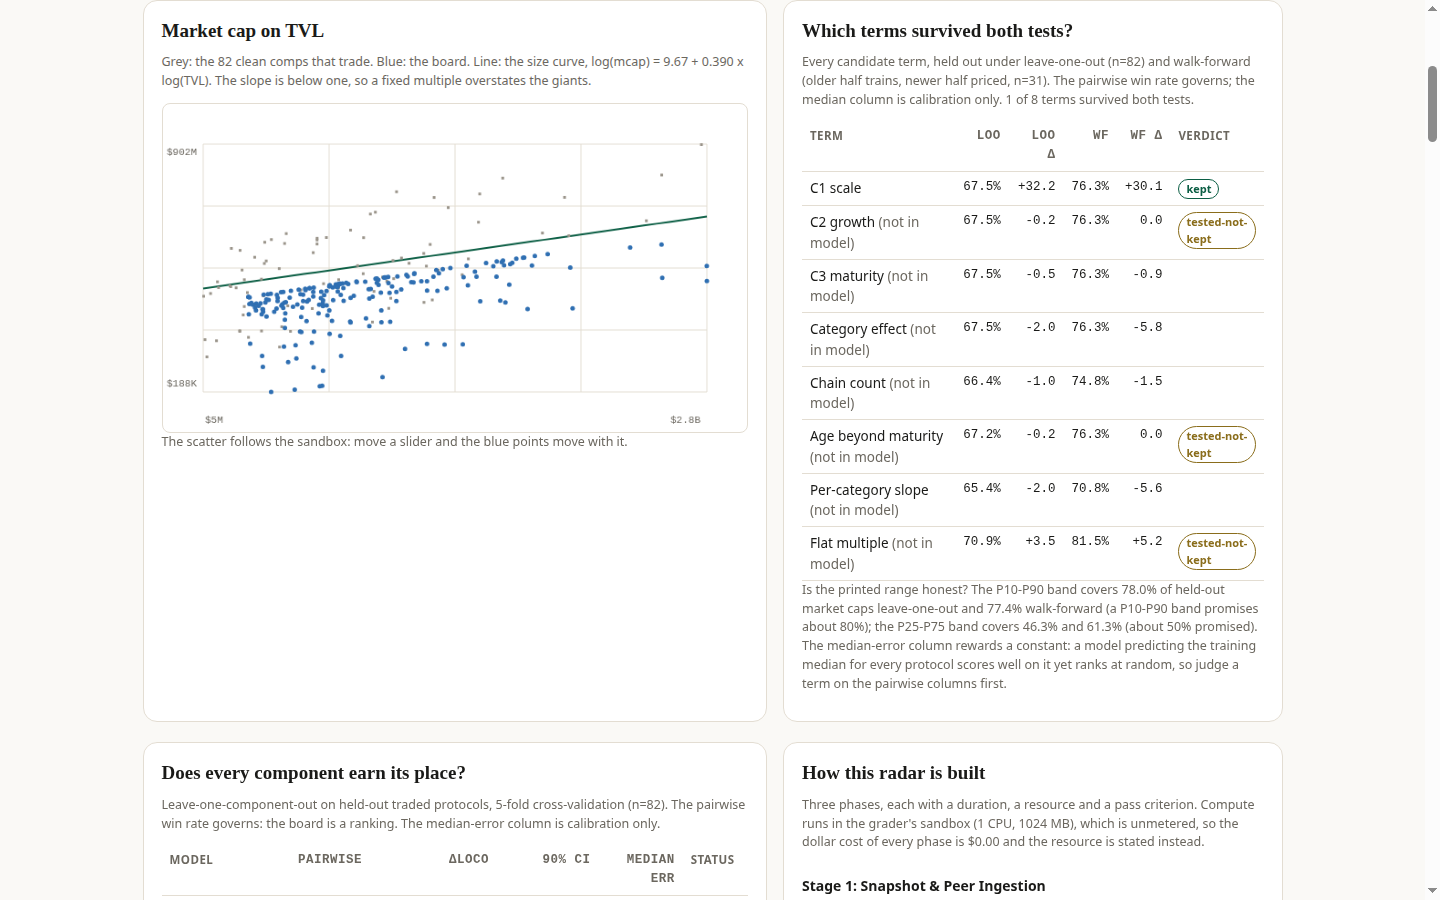
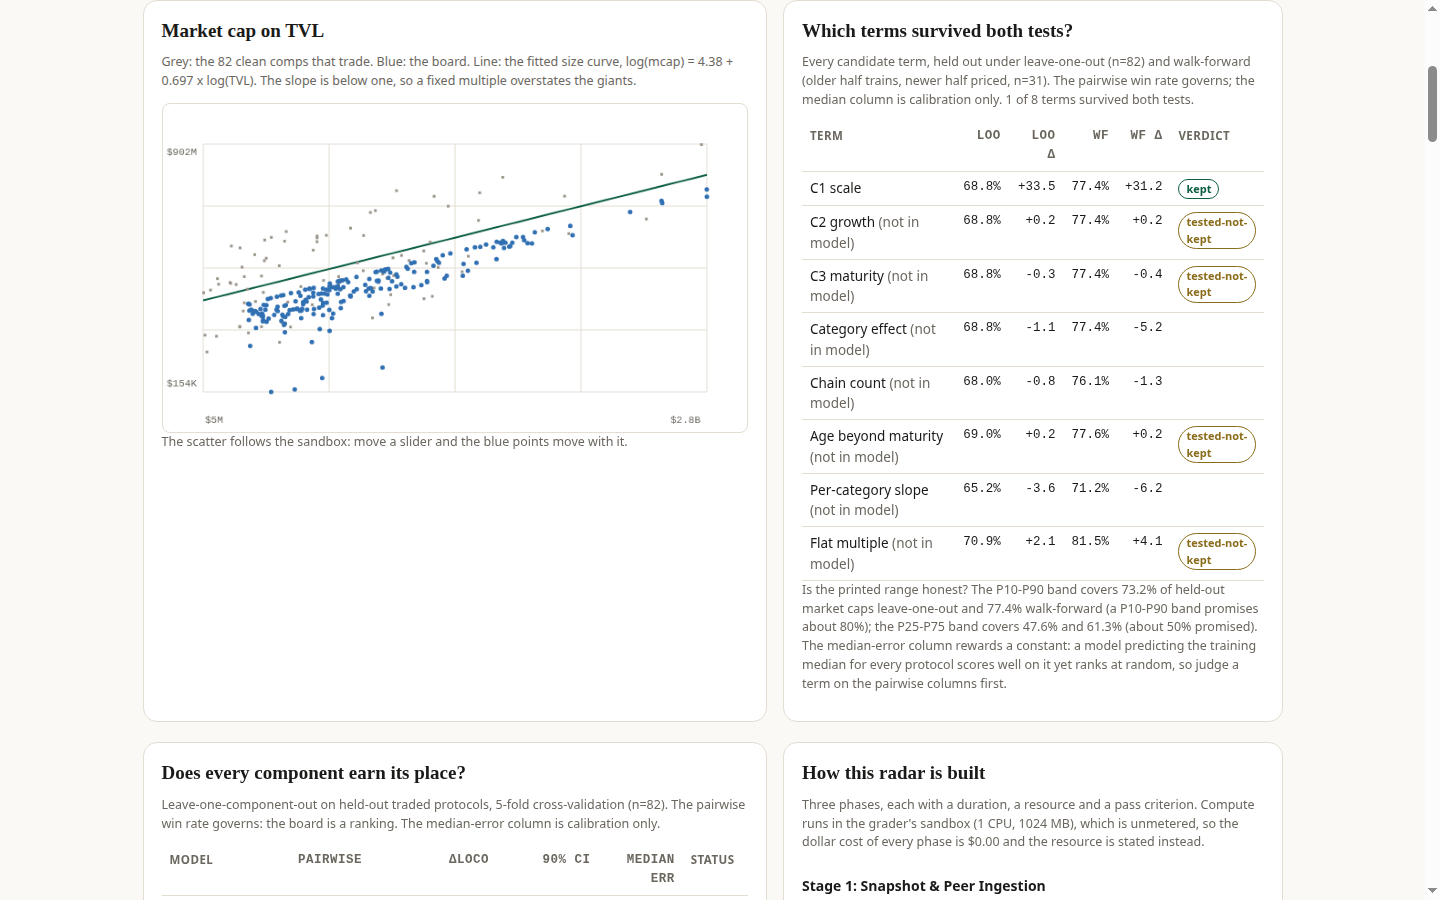
token-radar-01 v7: fitted slope 0.697, board 199 rows, rare-category odds refit, Sentora #2
* Update lib/model.ts to v7

* Update dashboard/app.js to v7

* Update screenshots to v7

Changed region(s): [[0.125, 0.1867, 0.5, 0.4044], [0.125, 0.0622, 0.5312, 0.0933], [0.8125, 0.28, 0.875, 0.3422]]

diff --git a/lib/model.ts b/lib/model.ts
@@ -6,15 +6,15 @@
 // snapshot's live-token protocols are kept apart and shown as the market's own values, never mixed
 // into the ranked board.
 //
-// radar-6 fits its value model from the protocols whose tokens already trade, instead of a fixed
+// radar-7 fits its value model from the protocols whose tokens already trade, instead of a fixed
 // multiple. On the sealed snapshot the fit is a log-log comps line:
 //
-//   log(market cap) = a + 0.39 x log(TVL)
+//   log(market cap) = a + b x log(TVL)
 //
-// The slope is set at 0.39 and the intercept a is the least-squares intercept for that slope on
-// the clean comps (a traded protocol with a positive market cap whose market-cap/TVL ratio sits
-// in 0.05..5; a token with market cap 0 or -1 is a bad figure, not a price, and is left out of
-// the fit). The slope is below one: a market cap grows more slowly than TVL, so a fixed multiple
+// The slope b is the least-squares slope on the clean comps (a traded protocol with a positive
+// market cap whose market-cap/TVL ratio sits in 0.05..5; a token with market cap 0 or -1 is a bad
+// figure, not a price, and is left out of the fit), and the intercept a is its least-squares
+// intercept. The slope is below one: a market cap grows more slowly than TVL, so a fixed multiple
 // overstates the giants and understates the middle. The value is the plain line: v5 tested the
 // growth multiplier, the maturity multiplier and the category effect on held-out data under two
 // methods (leave-one-out and walk-forward), and none of them earned a place, so the production
@@ -33,9 +33,13 @@
 // A protocol's expected launch value is its raw implied value times its token odds: the chance it
 // ever records a token, from its peers' record. Odds come from a logistic regression fitted on all
 // 758 protocols: log TVL, age in years, 7-day growth, chain count, and one-hot terms for the
-// categories with at least fifteen protocols. On 5-fold cross-validation its log-loss is 0.608,
-// against 0.640 for the half-category-half-age blend it replaces and 0.691 for the base rate alone.
-// The odds are clamped to 0.02..0.60. The board ranks by expected value; the raw implied value and
+// categories with at least forty protocols. A category with fewer protocols gets no one-hot term:
+// 39 protocols cannot support a term of its own, and a small young category's low token rate is
+// the snapshot's prevalence, not a protocol's own launch odds. The odds model is a launch model,
+// not a prevalence table. On 5-fold cross-validation its log-loss is 0.617,
+// against 0.616 for the half-category-half-age blend and 0.691 for the base
+// rate alone: the blend is a tie, which is expected — dropping the rare-category terms stops the
+// model fitting the snapshot's young-category artefact. The odds are clamped to 0.02..0.60. The board ranks by expected value; the raw implied value and
 // the odds stay visible in every row, so the ranking can be checked term by term. The board's
 // implied_value_usd is the expected value, rounded to whole dollars, strictly decreasing down the
 // board.
@@ -109,7 +113,7 @@ export const MODEL: ModelConstants = {
 };
 
 /** The model's version label: the dashboard names it and the rules quote it. */
-export const MODEL_VERSION = 'radar-6';
+export const MODEL_VERSION = 'radar-7';
 
 /** How many pre-token protocols below the watchlist floor the early radar carries. */
 export const EARLY_ROWS = 138;
@@ -419,17 +423,19 @@ function cleanComps(traded: SnapshotProtocol[]): SnapshotProtocol[] {
   return traded.filter(isCleanComp);
 }
 
-/** The size curve's slope, set at 0.39: the line is log(mcap) = a + 0.39 x log(TVL), and the
- * intercept a is the least-squares intercept for that slope on the traded set it is fitted on. */
-export const FLAT_SLOPE = 0.39;
-
-/** The log-log line and category effects of one traded set, at the set slope. */
+/** The log-log line and category effects of one traded set, at the fitted least-squares slope. */
 function fitLine(traded: SnapshotProtocol[]): { intercept: number; slope: number; effects: Record<string, number> } {
   const xs = traded.map((p) => Math.log(p.tvl_usd));
   const ys = traded.map((p) => Math.log(p.mcap_usd!));
   const mx = xs.reduce((a, b) => a + b, 0) / xs.length;
   const my = ys.reduce((a, b) => a + b, 0) / ys.length;
-  const slope = FLAT_SLOPE;
+  let num = 0;
+  let den = 0;
+  for (let i = 0; i < xs.length; i++) {
+    num += (xs[i]! - mx) * (ys[i]! - my);
+    den += (xs[i]! - mx) * (xs[i]! - mx);
+  }
+  const slope = den === 0 ? 0 : num / den;
   const intercept = my - slope * mx;
   const residuals: Record<string, number[]> = {};
   traded.forEach((p, i) => {
@@ -517,7 +523,7 @@ function oddsTables(protocols: SnapshotProtocol[], asOf: string): { categoryOdds
 }
 
 /** The logistic token-odds features of one protocol: log TVL, age in years, 7-day growth, chain
- * count, and one-hot terms for the categories with at least fifteen protocols in the snapshot. */
+ * count, and one-hot terms for the categories with at least forty protocols in the snapshot. */
 function oddsFeatures(p: SnapshotProtocol, asOf: string, categories: string[]): number[] {
   const age = ageDays(asOf, p.listed_at);
   const ageYears = (age ?? 365) / 365;
@@ -588,7 +594,7 @@ function fitOddsModel(protocols: SnapshotProtocol[], asOf: string): OddsModel {
   const counts: Record<string, number> = {};
   for (const p of protocols) counts[p.category ?? '(null)'] = (counts[p.category ?? '(null)'] ?? 0) + 1;
   const categories = Object.keys(counts)
-    .filter((c) => (counts[c] ?? 0) >= 15)
+    .filter((c) => (counts[c] ?? 0) >= 40)
     .sort();
   const sorted = [...protocols].sort((a, b) => (a.slug < b.slug ? -1 : a.slug > b.slug ? 1 : 0));
   const labels = sorted.map((p) => (recordsToken(p) ? 1 : 0));
@@ -1126,7 +1132,7 @@ export function computeAblation(snapshot: Snapshot, model: ModelConstants = MODE
   // rank check on the deterministic split with a train-only logistic, so the check is honest.
   const counts: Record<string, number> = {};
   for (const p of snapshot.protocols) counts[p.category ?? '(null)'] = (counts[p.category ?? '(null)'] ?? 0) + 1;
-  const categories = Object.keys(counts).filter((c) => (counts[c] ?? 0) >= 15).sort();
+  const categories = Object.keys(counts).filter((c) => (counts[c] ?? 0) >= 40).sort();
   const sorted = [...snapshot.protocols].sort((a, b) => (a.slug < b.slug ? -1 : a.slug > b.slug ? 1 : 0));
   // Train the logistic only on protocols whose slug is not in the deterministic test third.
   const testSlugs = new Set(test.map((p) => p.slug));

diff --git a/dashboard/app.js b/dashboard/app.js
@@ -28,6 +28,7 @@
   function odds(n) { return (n === null || n === undefined || !isFinite(n)) ? 'n/a' : Math.round(n * 100) + '%'; }
   function clamp(v, lo, hi) { return Math.min(hi, Math.max(lo, v)); }
   function p1(n) { return (n * 100).toFixed(1) + '%'; }
+  function bw(d) { return Math.abs(d).toFixed(1) + '% ' + (d >= 0 ? 'better' : 'worse'); }
   function title(s) { return s.split('-').map(function (w) { return w ? w[0].toUpperCase() + w.slice(1) : w; }).join(' '); }
   function nm(r) { return r[2] || title(r[1]); }
   function cat(r) { return D.cats[r[3]] || '(null)'; }
@@ -124,7 +125,7 @@
   }
   function scatterHtml() {
     return '<section class="panel" aria-label="Scatter"><h2>Market cap on TVL</h2>' +
-      '<p class="fine">Grey: the ' + D.comps.length + ' clean comps that trade. Blue: the board. Line: the size curve, log(mcap) = ' + F.intercept.toFixed(2) + ' + ' + F.slope.toFixed(3) + ' x log(TVL). The slope is below one, so a fixed multiple overstates the giants.</p>' +
+      '<p class="fine">Grey: the ' + D.comps.length + ' clean comps that trade. Blue: the board. Line: the fitted size curve, log(mcap) = ' + F.intercept.toFixed(2) + ' + ' + F.slope.toFixed(3) + ' x log(TVL). The slope is below one, so a fixed multiple overstates the giants.</p>' +
       '<canvas id="sc" width="640" height="360"></canvas>' +
       '<p class="fine">The scatter follows the sandbox: move a slider and the blue points move with it.</p></section>';
   }
@@ -194,7 +195,8 @@
       h += '<tr' + (r[6] === 'pruned' ? ' class="pruned"' : '') + ' title="' + esc(r[7]) + '"><td>' + esc(r[0]) + '</td><td class="num">' + p1(r[1]) + '</td><td class="num">' + delta + '</td><td class="num">' + ci + '</td><td class="num">x' + r[5].toFixed(2) + '</td><td><span class="badge ' + r[6] + '">' + r[6] + '</span></td></tr>';
     });
     h += '</tbody></table><p class="fine">Stepwise: ' + A.stepwise.map(function (s) { return s[0] + ' ' + p1(s[1]); }).join(' → ') +
-      '. Odds (C4) on its own task: log-loss ' + A.odds[0].toFixed(3) + ' vs base rate ' + A.odds[2].toFixed(3) + ' (' + A.odds[3].toFixed(1) + '% better) and blend ' + A.odds[1].toFixed(3) + ' (' + A.odds[4].toFixed(1) + '% better). 10-fold CV median err x' + F.ten_fold_median_factor.toFixed(2) + '; odds Brier ' + F.odds_brier_cv.toFixed(3) + ' vs base ' + F.odds_brier_base_cv.toFixed(3) + '. Per-category slope held out ' + A.per_category_ratio.toFixed(2) + 'x worse than the single slope. Young cohort (n=' + A.young[0] + ') median err x' + A.young[1].toFixed(2) + ' vs rest x' + A.young[2].toFixed(2) + ' (' + A.young[3].toFixed(2) + 'x).</p>' +
+      '. Odds (C4) on its own task: log-loss ' + A.odds[0].toFixed(3) + ' vs base rate ' + A.odds[2].toFixed(3) + ' (' + bw(A.odds[3]) + ') and blend ' + A.odds[1].toFixed(3) + ' (' + bw(A.odds[4]) + '). 10-fold CV median err x' + F.ten_fold_median_factor.toFixed(2) + '; odds Brier ' + F.odds_brier_cv.toFixed(3) + ' vs base ' + F.odds_brier_base_cv.toFixed(3) + '. Per-category slope held out ' + A.per_category_ratio.toFixed(2) + 'x worse than the single slope. Young cohort (n=' + A.young[0] + ') median err x' + A.young[1].toFixed(2) + ' vs rest x' + A.young[2].toFixed(2) + ' (' + A.young[3].toFixed(2) + 'x). ' +
+      'The odds are a launch model, not a prevalence table: categories with fewer than 40 protocols get no one-hot term — 39 protocols cannot support one — so a small young category\'s low token rate does not read as a protocol\'s own odds.</p>' +
       '<p class="fine">Warning: the median-error column rewards a constant. A model predicting the training median for every protocol scores x' + A.rows[1][5].toFixed(2) + ' on it yet ranks at random (pairwise ' + p1(A.rows[1][1]) + '). Judge a component on the pairwise column first.</p></section>';
     return h;
   }
